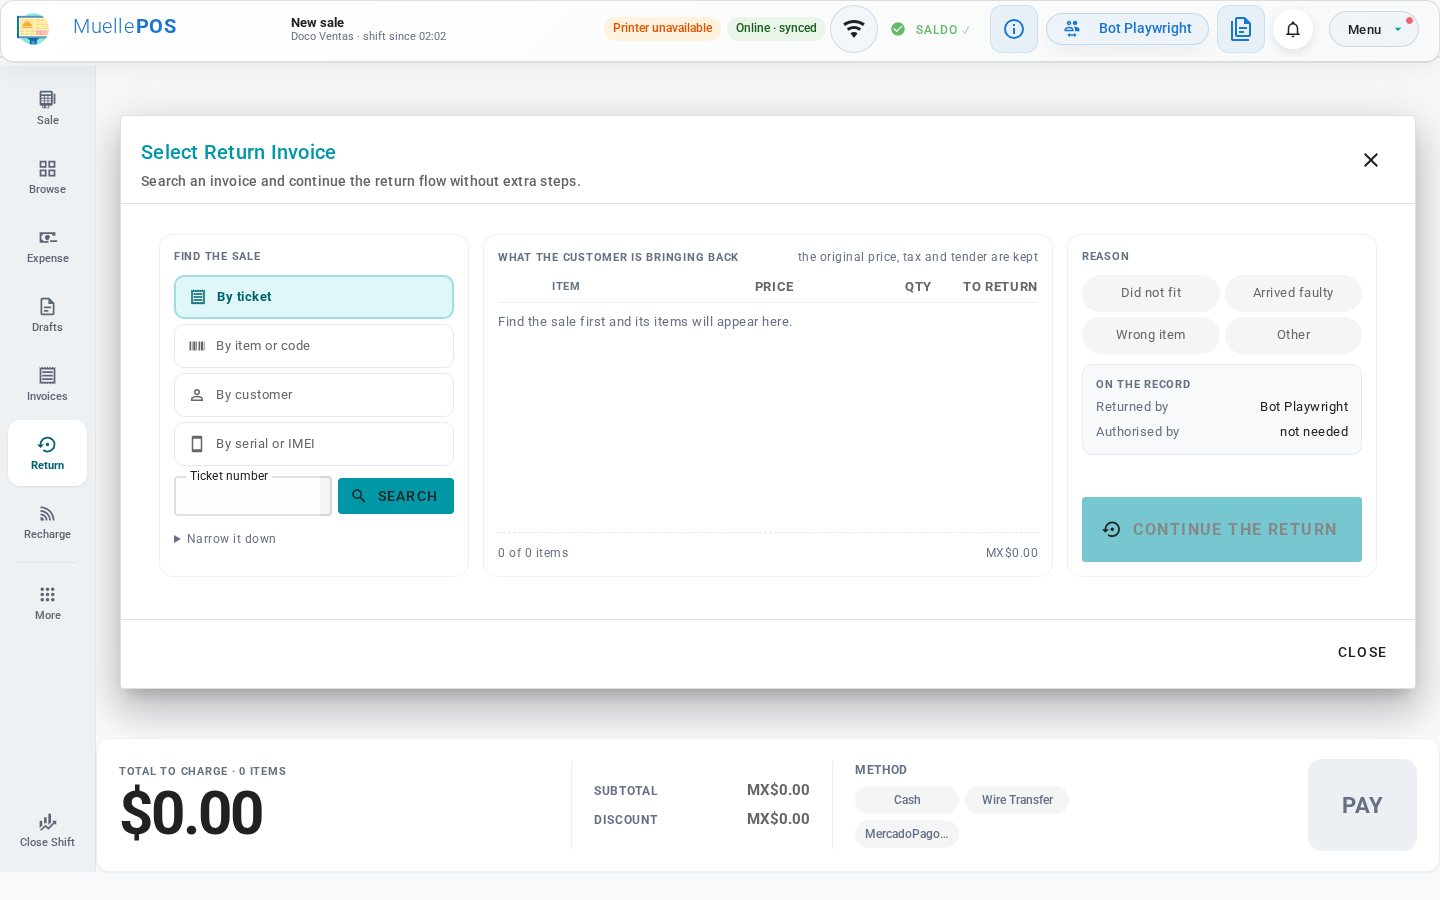
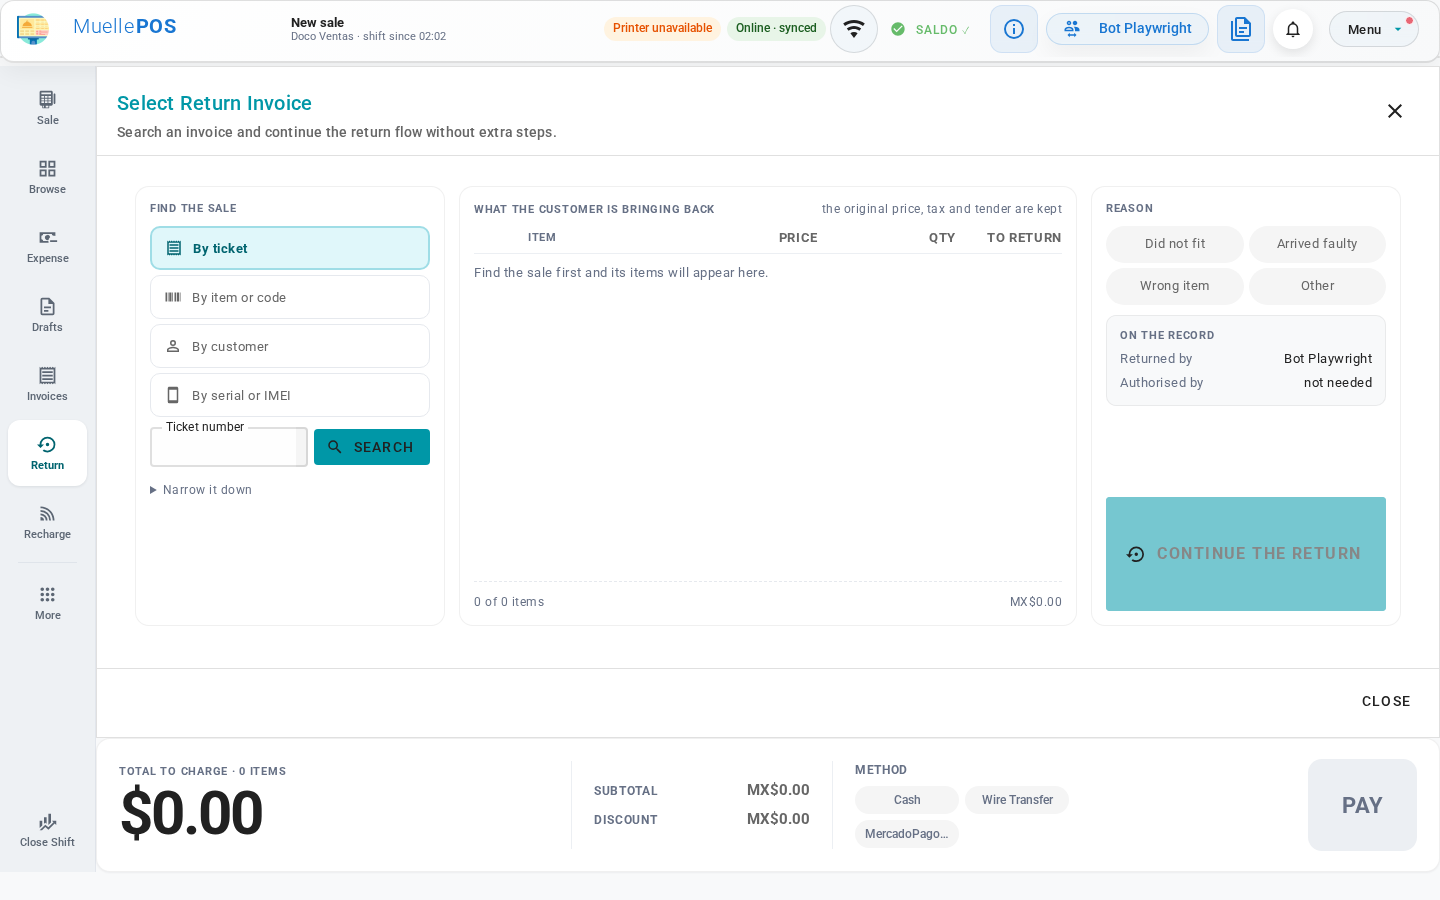
fix(facturas): hosted sheets fill the surface, and a folio never wraps
The flows dialogs were written as centred modals; `contained` kept them
centred inside the host with the surface's grey around them. Beside the rail
the sheet IS the screen: the overlay content and its card now take the whole
host (DestinationHost), for every hosted sheet. The ledger's ticket track grows
to 176px — the artboard's `B-04812` is six characters, the register's real
folio (`ACC-SINV-2026-03331`) nineteen, and a ticket id on two lines reads as
two tickets. Evidence re-captured: drafts/invoices host the ledger full-width;
`after/desktop-1440/facturas.png` joins the AFTER set.

Claude-Session: https://claude.ai/code/session_01GM2pLoyuxG8WX79B9wWtyA

diff --git a/frontend/src/posapp/components/pos/shell/destinations/DestinationHost.vue b/frontend/src/posapp/components/pos/shell/destinations/DestinationHost.vue
@@ -181,6 +181,26 @@ const refusalBody = computed(() => {
 	overflow: hidden;
 }
 
+/* A hosted SHEET fills the surface. The flows dialogs were written as centred
+ * modals — `max-width`, `margin: 24px`, a card capped at 92vh — and with
+ * `contained` those rules still centred a floating card inside the host, with
+ * the surface's grey showing around it (invoices.png, 2026-08-22). Beside the
+ * rail the sheet IS the screen, so the overlay content and its card take the
+ * whole host; the band and the rail stay because the host stays. */
+.destination-host :deep(.v-overlay--contained .v-overlay__content) {
+	width: 100%;
+	max-width: none;
+	height: 100%;
+	max-height: none;
+	margin: 0;
+}
+
+.destination-host :deep(.v-overlay--contained .v-overlay__content > .v-card) {
+	height: 100%;
+	max-height: none;
+	border-radius: 0;
+}
+
 /* A hosted PAGE keeps its own height (PayView sizes itself to the viewport,
  * the dashboard stacks cards) and the host becomes its scrollport. The sheet
  * discipline — one inner scrollport, the host clips — stays for the flows. */

diff --git a/frontend/src/posapp/components/pos/flows/ledger/InvoiceLedgerTable.vue b/frontend/src/posapp/components/pos/flows/ledger/InvoiceLedgerTable.vue
@@ -155,8 +155,11 @@ const ring = ref<HTMLElement | null>(null);
  */
 const gridStyle = computed(() => ({
 	gridTemplateColumns: props.columns.cashier
-		? "104px 56px minmax(0, 1fr) 96px 112px 132px"
-		: "104px 56px minmax(0, 1fr) 112px 132px",
+		// 176px: the artboard's `B-04812` is six characters, the register's
+		// real folio (`ACC-SINV-2026-03331`) is nineteen, and a ticket id that
+		// wraps onto two lines reads as two tickets (drafts.png, 2026-08-22).
+		? "176px 56px minmax(0, 1fr) 96px 112px 132px"
+		: "176px 56px minmax(0, 1fr) 112px 132px",
 }));
 
 const rowId = (index: number) => `ledger-row-${index}`;
